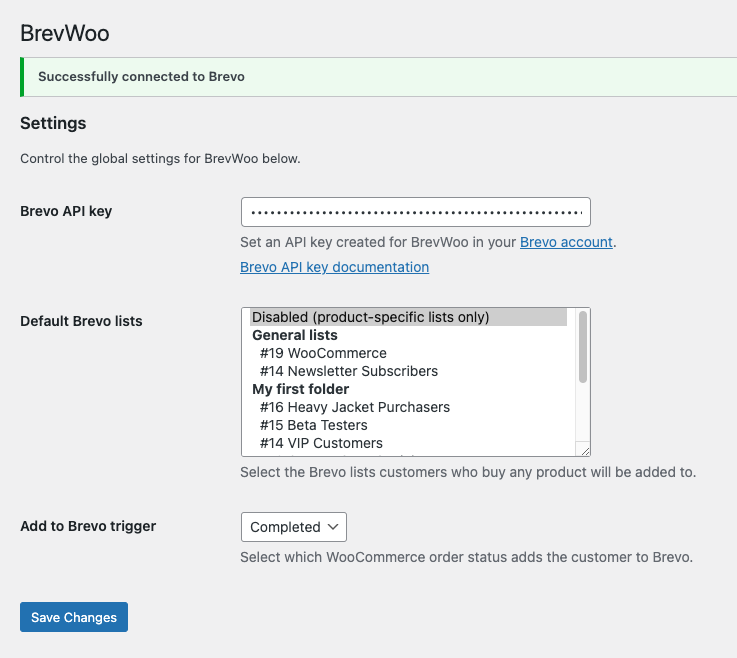
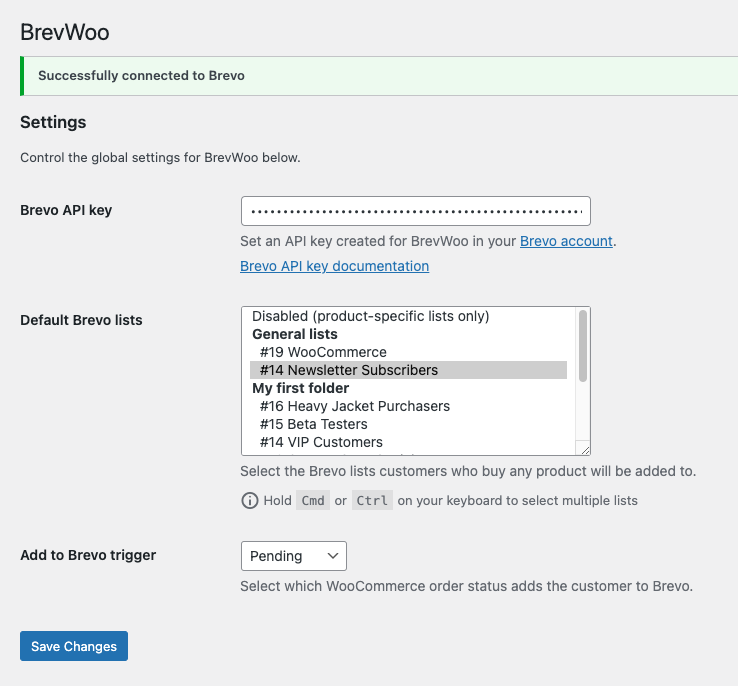
Display help below "Default Brevo lists" field

diff --git a/style.css b/style.css
@@ -21,8 +21,18 @@
     padding-left: 10px;
 }
 
+.form-table td .brevwoo-select-lists-help-note {
+    display: none;
+}
+
 @media (min-width: 783px) {
     .wp-core-ui select.brevwoo-select-lists-input {
         max-width: 350px;
+    }
+
+    .form-table td .brevwoo-select-lists-help-note {
+        display: block;
+        font-size: 13px;
+        margin-top: 10px;
     }
 }

diff --git a/includes/admin.php b/includes/admin.php
@@ -265,6 +265,14 @@ class BrevWooAdmin
                     'brevwoo'
                 ) .
                 '</p>';
+            echo '<p class="description brevwoo-select-lists-help-note">' .
+                '<span class="dashicons dashicons-info-outline" style="font-size: 19px;"></span> ' .
+                esc_html__('Hold ', 'brevwoo') .
+                '<kbd>Cmd</kbd>' .
+                esc_html__(' or ', 'brevwoo') .
+                '<kbd>Ctrl</kbd>' .
+                esc_html__(' on your keyboard to select multiple lists', 'brevwoo') .
+                '</p>';
         } catch (Exception $e) {
             echo '<p class="description">' . esc_html__('Unavailable', 'brevwoo') . '</p>';
         }
